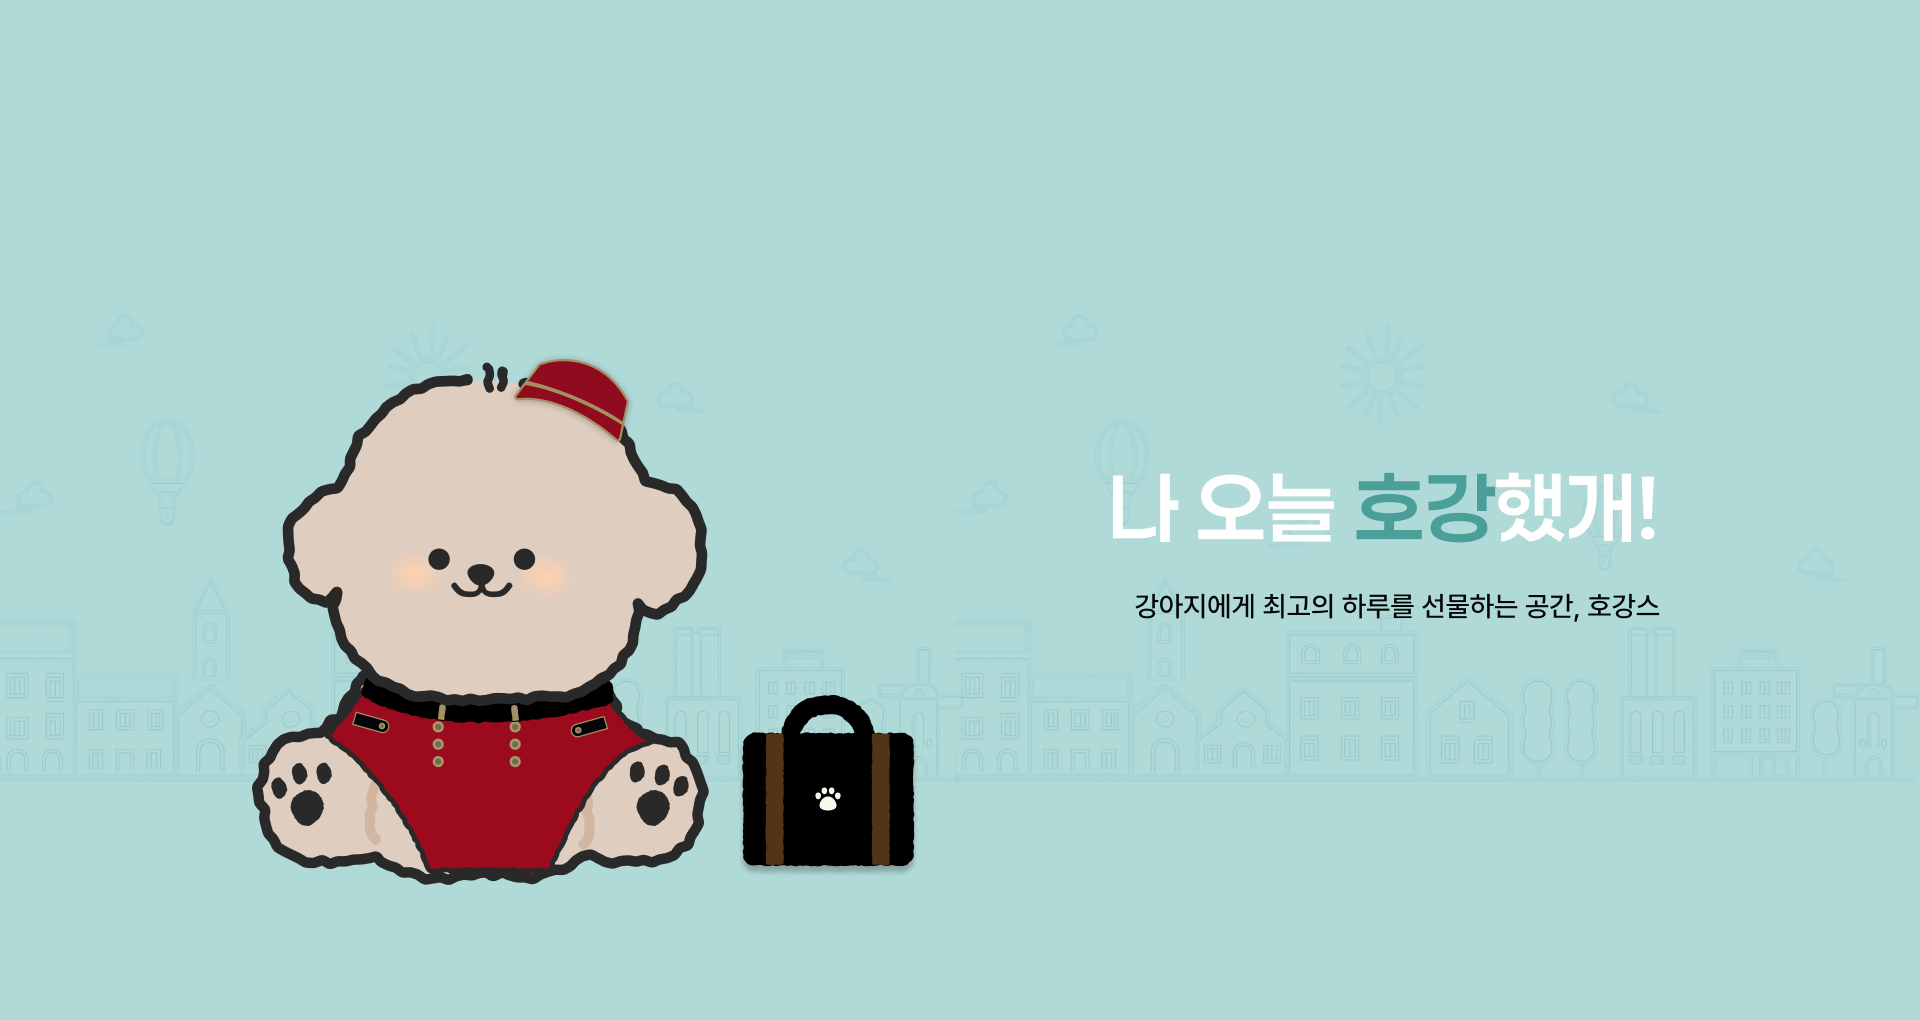
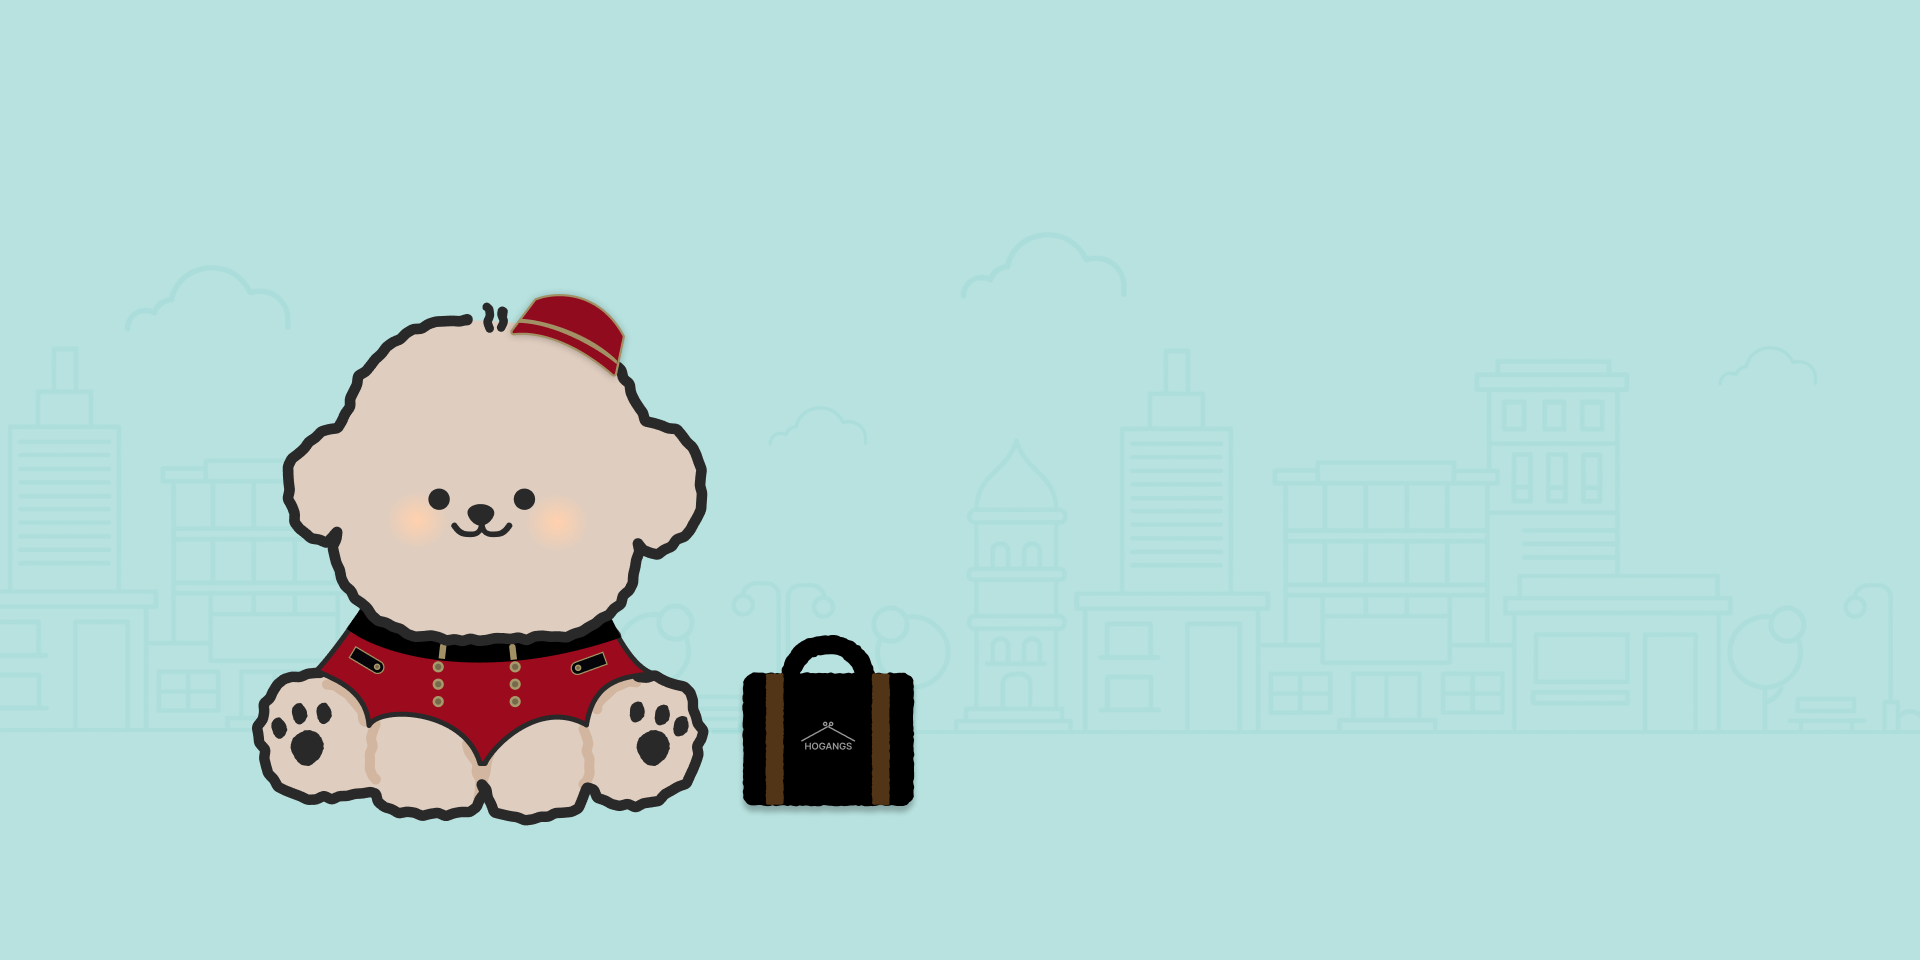
비주얼 수정

diff --git a/src/styles/hotel/_visual.scss b/src/styles/hotel/_visual.scss
@@ -1,8 +1,211 @@
-@use "./../utils" as *;
+@use './../utils' as *;
+
+:root {
+    --duration: 0.5s;
+}
 
 #hotel_visual {
-  margin-top: 84px;
-  width: 100%;
-  height: 1020px;
-  background: url("/hotel/MainVisual.png") no-repeat center/cover;
+    margin-top: 84px;
+    width: 100%;
+    height: 1020px;
+    background: url('/hotel/MainVisual.png') no-repeat center/cover;
+    position: relative;
+    .headline {
+        position: absolute;
+        top: 377px;
+        right: 260px;
+        color: #fefefe;
+        text-align: right;
+        font-family: Paperlogy;
+        font-size: 80px;
+        font-style: normal;
+        font-weight: 700;
+        line-height: normal;
+        letter-spacing: 0.8px;
+        overflow: visible;
+        .color {
+            color: #4a9f99;
+        }
+    }
+    .sub {
+        position: absolute;
+        top: 487px;
+        right: 260px;
+        width: 560px;
+        height: 42px;
+        background: #52c1ba;
+        display: flex;
+        justify-content: center;
+        align-items: center;
+        color: #fefefe;
+        font-family: Pretendard;
+        font-size: 22px;
+        font-style: normal;
+        font-weight: 600;
+        line-height: normal;
+    }
+}
+
+/* ================================
+   Splitting.js가 만들어주는 .char 애니메이션
+================================ */
+
+/* 모든 글자 기본 스타일 */
+.splitting .char {
+    visibility: hidden;
+
+    &::before {
+        visibility: visible;
+        animation: inherit;
+        animation-name: char-rotate;
+        animation-duration: calc(var(--duration) * 1.1);
+    }
+
+    &:first-child::before {
+        animation-name: first-char-rotate;
+        animation-duration: inherit;
+    }
+}
+
+/* 글자 하나씩 등장 */
+.char {
+    animation-name: char-transform;
+    animation-duration: var(--duration);
+    animation-fill-mode: both;
+
+    /* 마지막 글자부터 순차적으로 */
+    animation-delay: calc(var(--duration) + 0.05s * (var(--char-total) - var(--char-index)));
+
+    text-shadow: 0 3vh 4vh rgba(0, 0, 0, 0.03);
+
+    /* 첫 글자만 특별 애니메이션 */
+    &:first-child {
+        animation-name: first-char-transform;
+        animation-duration: calc(var(--duration) * 2);
+        animation-delay: 0s;
+    }
+}
+
+/* ------------------------------
+   Keyframes
+------------------------------ */
+
+/* 일반 글자 (아래에서 위로 튀어오르기) */
+@keyframes char-transform {
+    0% {
+        opacity: 0;
+        transform: translateY(50%);
+    }
+    70% {
+        transform: translateY(-6%);
+    }
+    90% {
+        transform: translateY(1%);
+    }
+    100% {
+        opacity: 1;
+        transform: translateY(0%);
+    }
+}
+
+/* 글자 회전 */
+@keyframes char-rotate {
+    0% {
+        transform: rotate(30deg);
+    }
+    30% {
+        transform: rotate(-10deg);
+    }
+    100% {
+        transform: rotate(0deg);
+    }
+}
+
+/* 첫 글자만 특별 이동 */
+@keyframes first-char-transform {
+    0% {
+        transform: translateX(calc(0.75ch * var(--char-total))) translateY(200%);
+    }
+    40% {
+        transform: translateX(calc(0.75ch * var(--char-total))) translateY(-10%);
+    }
+    60% {
+        transform: translateX(calc(0.75ch * var(--char-total))) translateY(7%);
+    }
+    100% {
+        transform: none;
+    }
+}
+
+/* 첫 글자 회전 */
+@keyframes first-char-rotate {
+    0% {
+        transform: rotate(0.5turn);
+    }
+    40% {
+        transform: rotate(-0.1turn);
+    }
+    70% {
+        transform: rotate(0.1turn);
+    }
+    100% {
+        transform: rotate(0turn);
+    }
+}
+
+/* === “호강” 위 점 두 개 === */
+#hotel_visual {
+    .headline {
+        .color {
+            display: inline-block;
+            position: relative;
+            &::before,
+            &::after {
+                content: '';
+                position: absolute;
+                top: -0.3em; /* 텍스트 위쪽 높이 */
+                width: 0.2em; /* 점 크기 */
+                height: 0.2em;
+                border-radius: 50%;
+                background: #4a9f99;
+                opacity: 0;
+                transform: translateY(0);
+                pointer-events: none;
+            }
+
+            &::before {
+                left: 0.35em;
+            }
+            &::after {
+                left: 1.25em;
+            }
+
+            &.show-dots::before,
+            &.show-dots::after {
+                opacity: 1;
+                animation: hogang-dot-bounce 1.2s ease-in-out infinite;
+            }
+
+            &.show-dots::before {
+                animation-delay: 0.05s;
+            }
+            &.show-dots::after {
+                animation-delay: 0.25s;
+            }
+        }
+    }
+}
+
+/* 통통 튀는 모션 */
+@keyframes hogang-dot-bounce {
+    0%,
+    100% {
+        transform: translateY(0) scale(1);
+    }
+    35% {
+        transform: translateY(-0.35em) scale(1.05);
+    }
+    55% {
+        transform: translateY(0) scale(0.98);
+    }
 }

diff --git a/src/styles/hotel/_section.scss b/src/styles/hotel/_section.scss
@@ -514,7 +514,7 @@
                         p {
                             color: #666;
                             text-align: center;
-                            font-family: Roboto;
+                            font-family: Pretendard;
                             font-size: 14px;
                             font-style: normal;
                             font-weight: 400;
@@ -570,7 +570,7 @@
                         p {
                             color: #666;
                             text-align: center;
-                            font-family: Roboto;
+                            font-family: Pretendard;
                             font-size: 16px;
                             font-style: normal;
                             font-weight: 400;
@@ -650,12 +650,57 @@
             z-index: 2;
         }
     }
-    .text {
+    .text_marquee_area {
         width: 100%;
-        height: 259px;
         position: absolute;
         bottom: 51px;
-        background: url('/hotel/photo/text.png') no-repeat center/contain;
-        z-index: 1;
+        .marquee_wrapper {
+            width: 100%;
+            position: relative;
+            overflow: hidden;
+            white-space: nowrap;
+            width: 100%;
+            background: white;
+            .marquee__inner {
+                display: inline-flex;
+                animation: marquee 10s linear infinite;
+                span {
+                    -webkit-text-stroke-width: 5px;
+                    -webkit-text-stroke-color: var(--Green-green-500, #b7e2df);
+                    font-family: Paperlogy;
+                    font-size: 220px;
+                    font-style: normal;
+                    font-weight: 700;
+                    line-height: normal;
+                    letter-spacing: 8.8px;
+                    text-transform: uppercase;
+                    color: transparent;
+                    -webkit-text-stroke: 1px #b7e2df; /* 기본 라인 텍스트 */
+
+                    /* 내부 색상용 배경 (가운데에서 퍼지도록 radial-gradient 사용) */
+                    background: radial-gradient(circle, #c2f0ed 0%, transparent 60%);
+                    background-position: center;
+                    background-repeat: no-repeat;
+                    background-size: 0% 0%; /* hover 전에는 완전 작게 */
+                    -webkit-background-clip: text;
+                    background-clip: text;
+
+                    transition: background-size 0.8s ease;
+                }
+                &:hover span {
+                    -webkit-text-stroke: 0px;
+                    background-size: 200% 200%; /* hover 시 크게 확장 */
+                }
+            }
+        }
     }
 } //hotel_photo_section
+
+@keyframes marquee {
+    0% {
+        transform: translateX(0%);
+    }
+    100% {
+        transform: translateX(-50%);
+    }
+}

diff --git a/src/components/hotel/Visual.jsx b/src/components/hotel/Visual.jsx
@@ -1,5 +1,51 @@
+import Splitting from 'splitting';
+import { useEffect } from 'react';
+import 'splitting/dist/splitting.css';
+import 'splitting/dist/splitting-cells.css';
 const Visual = () => {
-  return <section id="hotel_visual"></section>;
+    useEffect(() => {
+        Splitting();
+
+        const root = document.querySelector('#hotel_visual .headline');
+        if (!root) return;
+
+        const colorEl = root.querySelector('.color');
+        const chars = root.querySelectorAll('.char');
+        if (!colorEl || !chars.length) return;
+
+        // 가장 늦게 끝나는 char 찾기 (delay + duration이 가장 큰 것)
+        let lastChar = null;
+        let maxEnd = -1;
+        chars.forEach((ch) => {
+            const cs = getComputedStyle(ch);
+            const delay = parseFloat(cs.animationDelay || '0');
+            const dur = parseFloat(cs.animationDuration || '0');
+            const endTime = delay + dur;
+            if (endTime > maxEnd) {
+                maxEnd = endTime;
+                lastChar = ch;
+            }
+        });
+
+        const onEnd = () => {
+            colorEl.classList.add('show-dots');
+        };
+
+        if (lastChar) {
+            lastChar.addEventListener('animationend', onEnd, { once: true });
+        } else {
+            // 폴백(안전장치)
+            setTimeout(onEnd, 1200);
+        }
+    }, []);
+    return (
+        <section id="hotel_visual">
+            <div data-splitting className="headline">
+                나 오늘 <span className="color">호강</span>했개!
+            </div>
+            <span className="sub">강아지에게 최고의 하루를 선물하는 공간, 호강스</span>
+        </section>
+    );
 };
 
 export default Visual;

diff --git a/src/components/hotel/section/Photo.jsx b/src/components/hotel/section/Photo.jsx
@@ -23,7 +23,7 @@ const Photo = () => {
                     duration: 4,
                     start: 'top 80%',
                     end: 'bottom top',
-                    markers: true,
+                    // markers: true,
                 },
             });
 
@@ -52,7 +52,16 @@ const Photo = () => {
                 <img src="/hotel/photo/3.png" alt="" className="img3" ref={img3Ref} />
                 <img src="/hotel/photo/4.png" alt="" className="img4" ref={img4Ref} />
             </div>
-            <div className="text"></div>
+
+            {/* text marquee */}
+            <div className="text_marquee_area">
+                <div className="marquee_wrapper">
+                    <div className="marquee__inner">
+                        <span>PREMIUM LIFE YOUR DOG</span>
+                        <span>PREMIUM LIFE YOUR DOG</span>
+                    </div>
+                </div>
+            </div>
         </section>
     );
 };

diff --git a/src/components/hotel/partials/CurveHeadLine.jsx b/src/components/hotel/partials/CurveHeadLine.jsx
@@ -22,7 +22,7 @@ const CurveHeadLine = () => {
                 trigger: svgRef.current,
                 start: 'top 80%',
                 // end: 'top 20%',
-                markers: true,
+                // markers: true,
                 onEnter: () => {
                     gsap.to(tpRef.current, {
                         attr: { startOffset: '28%' },
